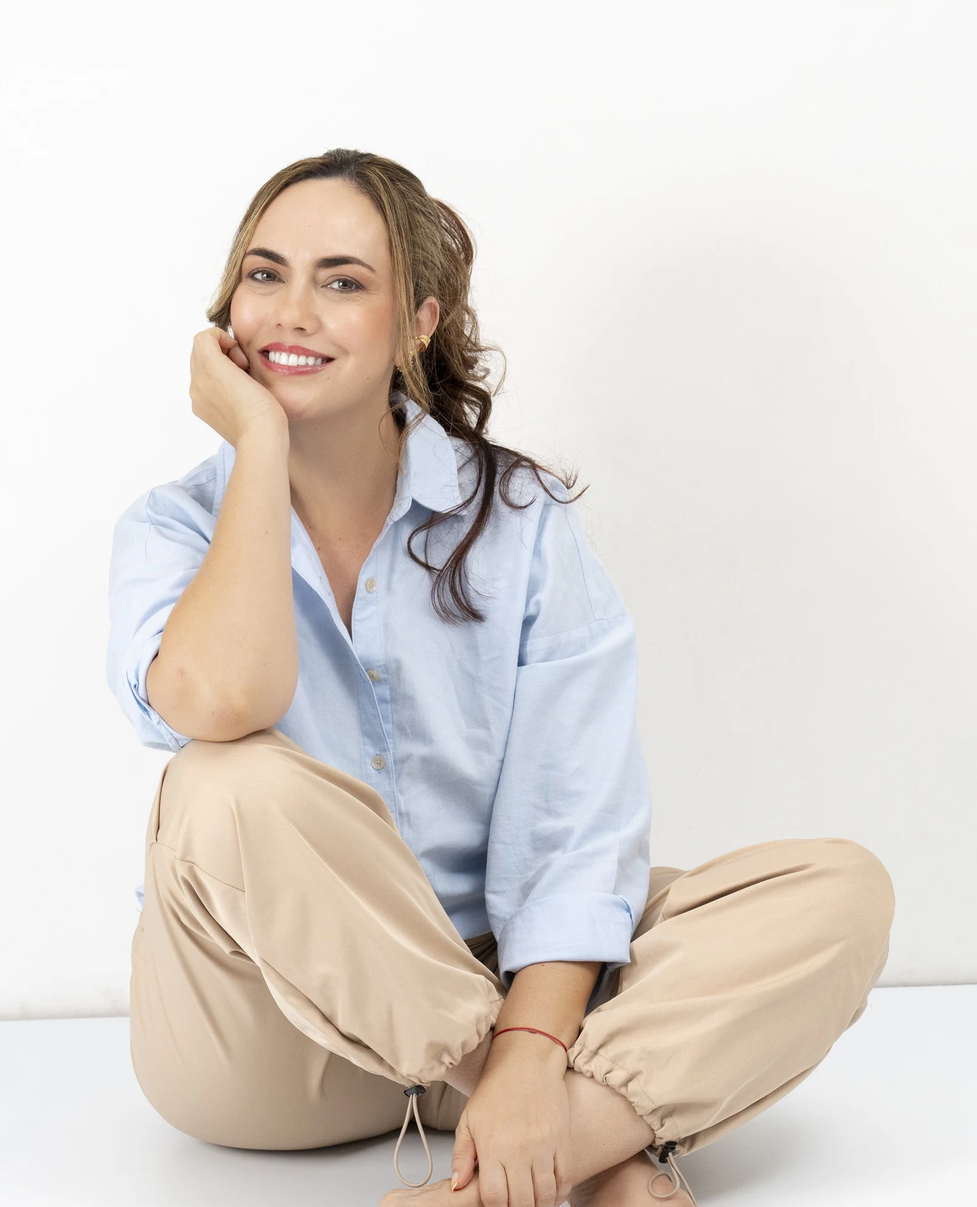
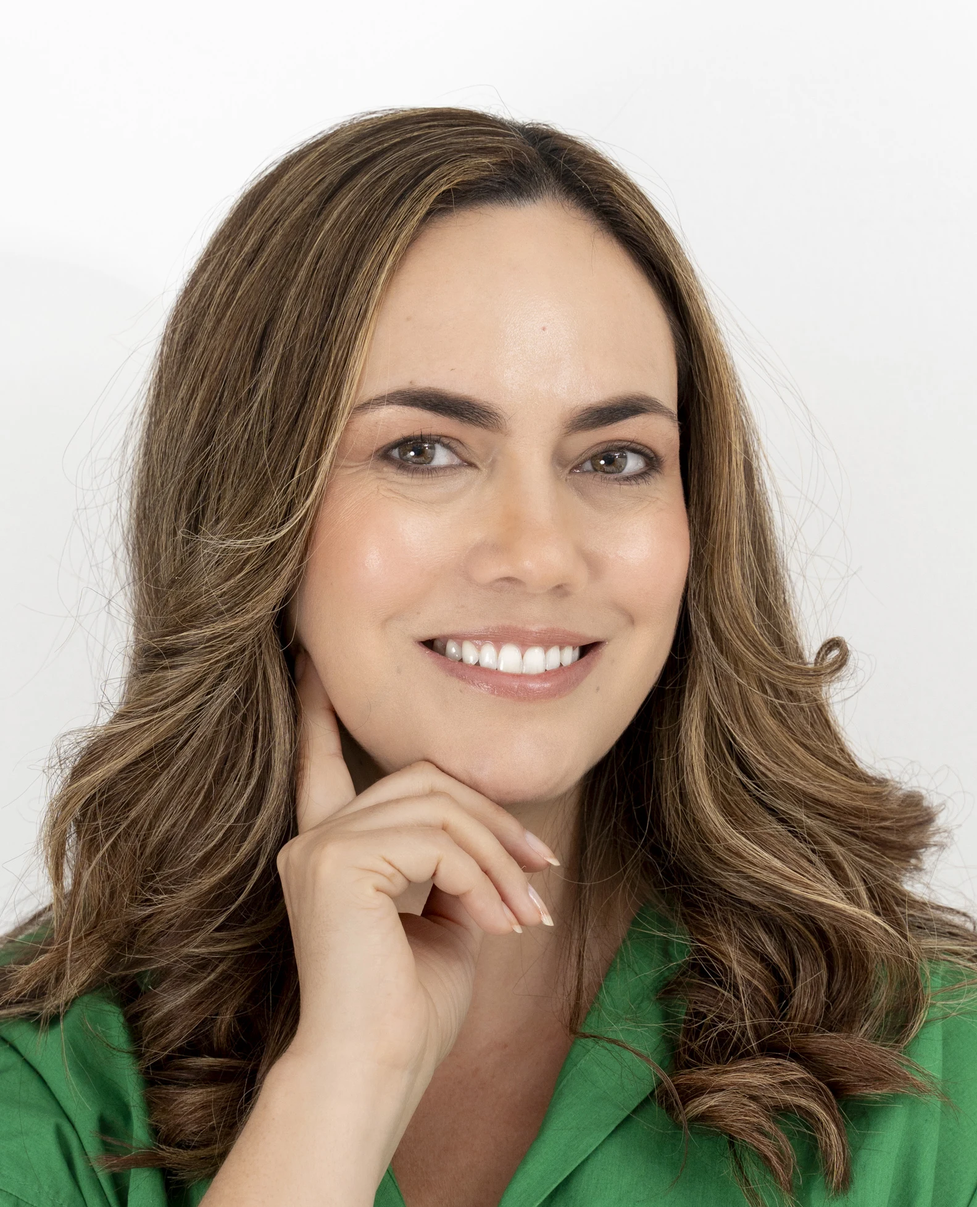
Foto de portada sin fondo, video real y arregla overflow del eyebrow en mobile
- Hero: nueva foto de Adriana (misma pose que la de bio) con fondo
  eliminado, sin marco circular, bordes difuminados para que no se vea
  pegada. Recorte del watermark de Athenea corregido: el primer intento
  truncaba los pies, ahora se preserva la pose completa.
- Bio: recupera la foto original (Athenea 4) para no repetir la misma
  pose que ahora usa el hero.
- Agrega el módulo de video: embed real de YouTube (entrevista de
  Adriana con Maria Elena Badillo), con miniatura y click-to-play.
  El módulo de "Cómo trabajamos" (metodología) ya existía.
- Corrige bug real de mobile: el eyebrow del hero usaba
  display:inline-flex y el texto no hacía wrap (min-width:auto de
  flexbox), cortando "Sexualidad consciente" en pantallas angostas.

diff --git a/index.html b/index.html
@@ -43,10 +43,11 @@
   .hero-layout { display: grid; grid-template-columns: 1.15fr 0.85fr; gap: 56px; align-items: center; }
   @media (max-width: 860px) { .hero-layout { grid-template-columns: 1fr; gap: 32px; } }
   .eyebrow {
-    display: inline-flex; align-items: center; gap: 10px; font-size: 12px; font-weight: 700;
+    display: flex; align-items: center; gap: 10px; font-size: 12px; font-weight: 700;
     letter-spacing: 0.14em; text-transform: uppercase; color: var(--terracota-deep); margin-bottom: 20px;
   }
-  .eyebrow::before { content: ""; width: 22px; height: 2px; background: var(--terracota); display: inline-block; }
+  .eyebrow::before { content: ""; width: 22px; height: 2px; flex: none; background: var(--terracota); display: inline-block; }
+  .eyebrow-texto { min-width: 0; }
   .hero h1 { font-size: clamp(32px, 4.6vw, 52px); line-height: 1.18; color: var(--ciruela-deep); max-width: 15ch; }
   .hero h1 em { font-style: normal; color: var(--terracota); }
   .hero p.dek { font-size: 18px; color: var(--text-faint); max-width: 46ch; margin-top: 22px; }
@@ -55,17 +56,16 @@
     .hero p.dek { font-size: 15.5px; margin-top: 14px; }
   }
   .hero-photo-wrap { position: relative; display: flex; justify-content: center; }
+  .hero-photo-wrap::before {
+    content: ""; position: absolute; width: 340px; height: 340px; border-radius: 50%;
+    background: radial-gradient(circle, rgba(212,169,79,0.30), rgba(72,30,99,0.16) 55%, transparent 72%);
+    filter: blur(6px); z-index: 0;
+  }
   .hero-photo {
-    width: min(360px, 80vw); aspect-ratio: 1/1; border-radius: 50%; object-fit: cover;
-    border: 8px solid var(--cream); box-shadow: 0 30px 60px -20px rgba(60,25,45,0.35);
-    position: relative; z-index: 1;
+    width: min(360px, 82vw); height: auto; object-fit: contain;
+    filter: drop-shadow(0 26px 40px rgba(60,25,45,0.28));
+    position: relative; z-index: 1; display: block;
   }
-  .hero-ring {
-    position: absolute; inset: -18px; border-radius: 50%; border: 1.5px dashed rgba(212,169,79,0.55);
-    animation: girar 60s linear infinite;
-  }
-  @keyframes girar { to { transform: rotate(360deg); } }
-  @media (prefers-reduced-motion: reduce) { .hero-ring { animation: none; } }
 
   .btn-hero {
     display: inline-flex; align-items: center; gap: 9px;
@@ -76,6 +76,26 @@
     transition: transform 0.2s, box-shadow 0.2s;
   }
   .btn-hero:hover { transform: translateY(-2px); box-shadow: 0 18px 32px -8px rgba(156,79,54,0.6); }
+
+  /* VIDEO */
+  section.video { padding: 0; margin-top: -4px; }
+  .wrap-video { max-width: 880px; }
+  .video-glow { position: relative; padding: 48px 48px 18px; }
+  @media (max-width: 720px) { .video-glow { padding: 28px 20px 10px; } }
+  .video-glow::before {
+    content: ""; position: absolute; inset: 0; z-index: 0; border-radius: 40px;
+    background:
+      radial-gradient(closest-side, rgba(212,169,79,0.6), transparent 72%) 50% 50% / 78% 78% no-repeat,
+      radial-gradient(closest-side, rgba(72,30,99,0.28), transparent 70%) 86% 80% / 46% 46% no-repeat;
+    filter: blur(30px);
+  }
+  .video-frame {
+    position: relative; z-index: 1;
+    aspect-ratio: 16/9; background: #1f0d2b; border-radius: 20px;
+    box-shadow: 0 0 1px rgba(60,25,45,0.1), 0 18px 40px rgba(60,25,45,0.25);
+    overflow: hidden; border: 5px solid var(--champan);
+  }
+  .video-frame video { display: block; width: 100%; height: 100%; object-fit: contain; }
 
   /* BANDS */
   .band { padding: 68px 0; }
@@ -202,7 +222,7 @@
   <header class="hero">
     <div class="wrap hero-layout">
       <div>
-        <p class="eyebrow">Psicología holística · Sexología · Sexualidad consciente</p>
+        <p class="eyebrow"><span class="eyebrow-texto">Psicología holística · Sexología · Sexualidad consciente</span></p>
         <h1>Tu energía sexual también se puede <em>sanar, equilibrar y expandir</em>.</h1>
         <p class="dek">Acompaño a mujeres y hombres a liberar bloqueos, romper culpas heredadas y reconectar con su placer — desde la sexología clínica, el Reiki y la sexualidad consciente.</p>
         <a class="btn-hero" href="https://wa.me/573003866079?text=Hola%2C%20%C2%BFc%C3%B3mo%20est%C3%A1s%3F%20Deseo%20una%20sesi%C3%B3n%20con%20la%20sex%C3%B3loga%20y%20reikista%20Adriana%20Vargas%2C%20por%20favor" target="_blank" rel="noopener">
@@ -211,11 +231,27 @@
         </a>
       </div>
       <div class="hero-photo-wrap">
-        <div class="hero-ring"></div>
         <img class="hero-photo" src="adriana-foto-hero.webp" alt="Adriana Vargas, sexóloga">
       </div>
     </div>
   </header>
+
+  <section class="video" id="video">
+    <div class="wrap wrap-video" style="text-align: center; padding-bottom: 6px;">
+      <p class="eyebrow-sm" style="justify-content:center; width:100%"><span class="dash"></span>Antes de agendar</p>
+      <h2 class="tit">Escúchame antes de decidir</h2>
+      <p style="color: var(--text-faint); font-size: 15.5px; max-width: 56ch; margin: 0 auto 8px;">Elegir a tu terapeuta es una decisión íntima. Aquí te cuento cómo trabajo y por qué la sexualidad también se sana.</p>
+    </div>
+    <div class="wrap wrap-video">
+      <div class="video-glow">
+        <div class="video-frame" id="yt-adriana" data-yt="1xRspZr5Rvs" style="background-image:url('adriana-yt-cover.jpg'); background-size:cover; background-position:center; cursor:pointer;" onclick="reproducirYT(this)">
+          <button class="yt-play" aria-label="Reproducir video" style="position:absolute; inset:0; margin:auto; width:74px; height:74px; border-radius:50%; background:rgba(31,13,43,0.82); border:3px solid #fff; cursor:pointer;">
+            <svg viewBox="0 0 24 24" width="26" height="26" style="margin-left:3px;"><path fill="#fff" d="M8 5v14l11-7z"/></svg>
+          </button>
+        </div>
+      </div>
+    </div>
+  </section>
 
   <section class="band cream">
     <div class="wrap">
@@ -372,6 +408,16 @@
       </div>
     </div>
   </div>
+
+  <script>
+    function reproducirYT(box) {
+      var id = box.getAttribute('data-yt');
+      box.style.backgroundImage = 'none';
+      box.removeAttribute('onclick');
+      box.style.cursor = 'default';
+      box.innerHTML = '<iframe src="https://www.youtube.com/embed/' + id + '?autoplay=1" title="Video de Adriana Vargas" style="width:100%;height:100%;border:0;" allow="accelerometer; autoplay; clipboard-write; encrypted-media; gyroscope; picture-in-picture" allowfullscreen></iframe>';
+    }
+  </script>
 
   <script>
     // Los links de pago de Bold son de un solo uso — cada clic pide uno
